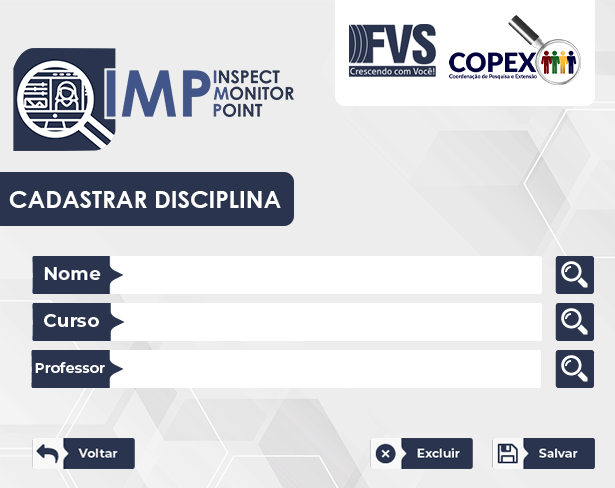
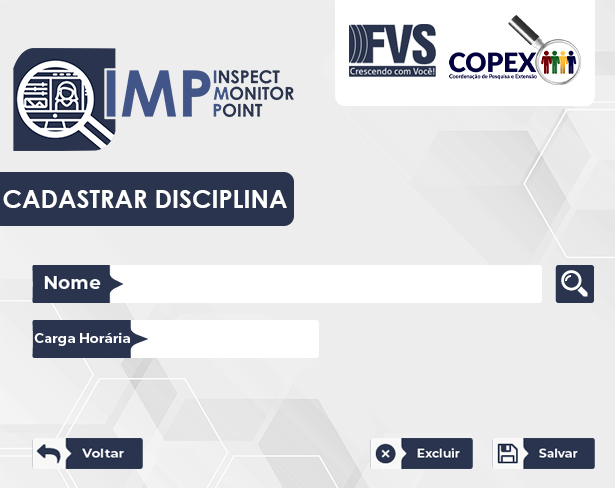
Alterações tela disciplina

diff --git a/InspectMonitorPoint/src/telas/CadastroDisciplina.java b/InspectMonitorPoint/src/telas/CadastroDisciplina.java
@@ -50,11 +50,11 @@ public class CadastroDisciplina extends javax.swing.JFrame {
         btnExcluirDisciplina = new javax.swing.JButton();
         btnSalvarDisciplina = new javax.swing.JButton();
         btnVoltarDisciplina = new javax.swing.JButton();
-        jLabel1 = new javax.swing.JLabel();
         tfCargaHoraria = new javax.swing.JTextField();
         jLabel4 = new javax.swing.JLabel();
 
         setDefaultCloseOperation(javax.swing.WindowConstants.EXIT_ON_CLOSE);
+        setAutoRequestFocus(false);
         getContentPane().setLayout(new org.netbeans.lib.awtextra.AbsoluteLayout());
 
         jButton3.setIcon(new javax.swing.ImageIcon(getClass().getResource("/imagens/botaolupa.png"))); // NOI18N
@@ -66,11 +66,11 @@ public class CadastroDisciplina extends javax.swing.JFrame {
                 jButton3ActionPerformed(evt);
             }
         });
-        getContentPane().add(jButton3, new org.netbeans.lib.awtextra.AbsoluteConstraints(554, 256, 40, 40));
+        getContentPane().add(jButton3, new org.netbeans.lib.awtextra.AbsoluteConstraints(555, 264, 40, 40));
 
         tfNome.setFont(new java.awt.Font("Arial", 1, 18)); // NOI18N
         tfNome.setBorder(null);
-        getContentPane().add(tfNome, new org.netbeans.lib.awtextra.AbsoluteConstraints(130, 258, 410, 35));
+        getContentPane().add(tfNome, new org.netbeans.lib.awtextra.AbsoluteConstraints(130, 266, 410, 35));
 
         btnExcluirDisciplina.setIcon(new javax.swing.ImageIcon(getClass().getResource("/imagens/botaoexcluirpequeno.png"))); // NOI18N
         btnExcluirDisciplina.setBorder(null);
@@ -104,9 +104,8 @@ public class CadastroDisciplina extends javax.swing.JFrame {
         btnVoltarDisciplina.setCursor(new java.awt.Cursor(java.awt.Cursor.DEFAULT_CURSOR));
         getContentPane().add(btnVoltarDisciplina, new org.netbeans.lib.awtextra.AbsoluteConstraints(32, 438, -1, -1));
 
-        jLabel1.setText("CargaHoraia");
-        getContentPane().add(jLabel1, new org.netbeans.lib.awtextra.AbsoluteConstraints(460, 190, -1, -1));
-        getContentPane().add(tfCargaHoraria, new org.netbeans.lib.awtextra.AbsoluteConstraints(530, 190, 50, -1));
+        tfCargaHoraria.setBorder(null);
+        getContentPane().add(tfCargaHoraria, new org.netbeans.lib.awtextra.AbsoluteConstraints(150, 321, 165, 35));
 
         jLabel4.setIcon(new javax.swing.ImageIcon(getClass().getResource("/imagens/backgroundcadastrodisciplina.jpg"))); // NOI18N
         getContentPane().add(jLabel4, new org.netbeans.lib.awtextra.AbsoluteConstraints(0, 0, -1, -1));
@@ -173,7 +172,6 @@ public class CadastroDisciplina extends javax.swing.JFrame {
     private javax.swing.JButton btnSalvarDisciplina;
     private javax.swing.JButton btnVoltarDisciplina;
     private javax.swing.JButton jButton3;
-    private javax.swing.JLabel jLabel1;
     private javax.swing.JLabel jLabel4;
     private javax.swing.JTextField tfCargaHoraria;
     private javax.swing.JTextField tfNome;
